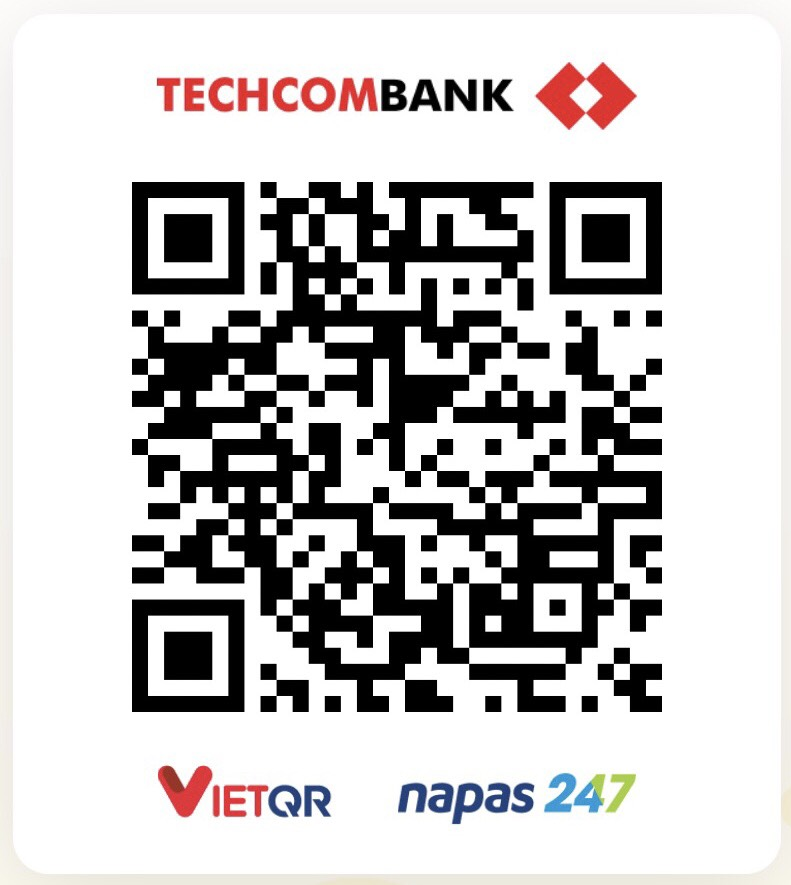
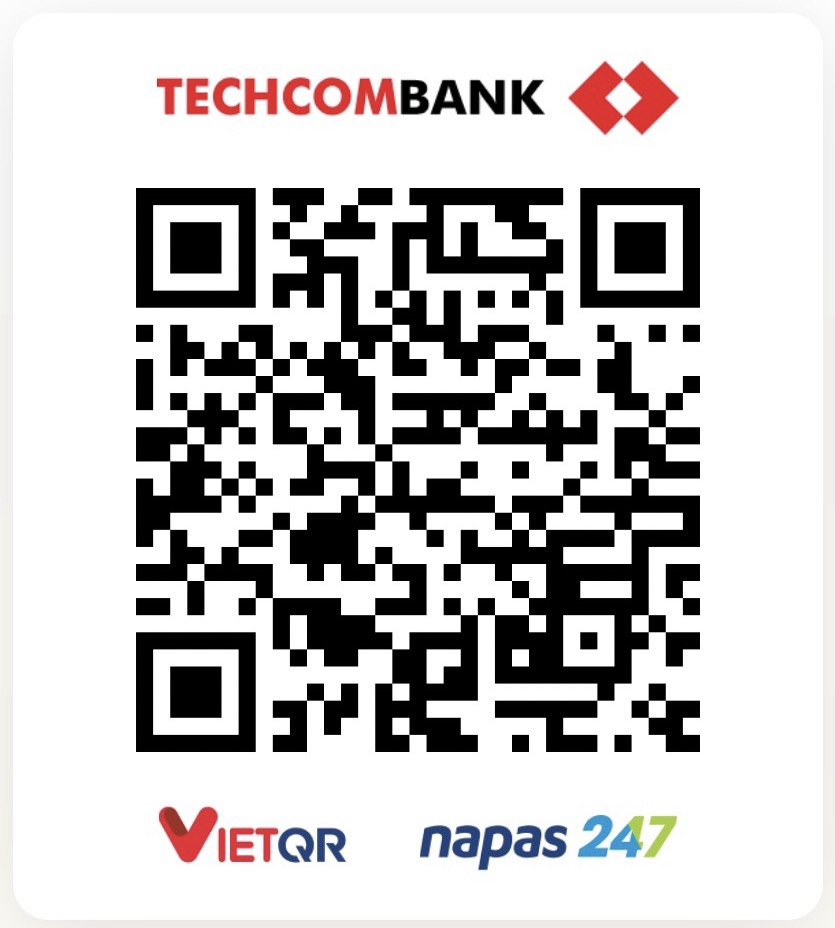
wedding-02: add submit data confirm to gg sheet

diff --git a/services/spreadsheet.ts b/services/spreadsheet.ts
@@ -1,0 +1,41 @@
+import { JWT } from 'google-auth-library';
+import { GoogleSpreadsheet } from 'google-spreadsheet';
+
+const SPREADSHEET_ID = process.env.NEXT_PUBLIC_SPREADSHEET_ID as string;
+const SHEET_ID = parseInt(process.env.NEXT_PUBLIC_SHEET_ID as string);
+const GOOGLE_CLIENT_EMAIL = process.env.NEXT_PUBLIC_GOOGLE_CLIENT_EMAIL;
+const GOOGLE_SERVICE_PRIVATE_KEY = process.env
+  .GOOGLE_SERVICE_PRIVATE_KEY as string;
+
+const serviceAccountAuth = new JWT({
+  email: GOOGLE_CLIENT_EMAIL,
+  key: GOOGLE_SERVICE_PRIVATE_KEY.replace(/\\n/g, '\n'),
+  scopes: ['https://www.googleapis.com/auth/spreadsheets'],
+});
+const doc = new GoogleSpreadsheet(SPREADSHEET_ID, serviceAccountAuth);
+
+export async function appendRowData(row: any) {
+  try {
+    await doc.loadInfo();
+    const sheet = doc.sheetsById[SHEET_ID];
+    await sheet.addRow(row);
+  } catch (err) {
+    console.error('Error when add data to spread sheet: ', err);
+  }
+}
+
+export async function getIDs(): Promise<number> {
+  try {
+    await doc.loadInfo();
+    const sheet = doc.sheetsById[SHEET_ID];
+    const rows = await sheet.getRows();
+    if (rows.length < 1) {
+      return 1;
+    } else {
+      return parseInt(rows[rows.length - 1].get('STT')) + 1;
+    }
+  } catch (err) {
+    console.error('Error when get data from spread sheet: ', err);
+    return 1;
+  }
+}

diff --git a/components/wish/wish-form.tsx b/components/wish/wish-form.tsx
@@ -14,8 +14,13 @@ group-hover:translate-x-1 group-hover:-translate-y-1"
 const loadingIcon = (
   <FaSpinner className="text-xs opacity-80 transition-all animate-spin" />
 );
-export default function WishForm() {
+
+type WishFormProps = {
+  callDone: (isDone: boolean) => void;
+};
+export default function WishForm({ callDone }: WishFormProps) {
   const [isLoading, setIsLoading] = React.useState(false);
+  const [isSubmitted, setIsSubmitted] = React.useState(false);
   const submitForm = async (event: FormEvent<HTMLFormElement>) => {
     event.preventDefault();
     setIsLoading(true);
@@ -33,6 +38,8 @@ export default function WishForm() {
       console.log(error);
     } finally {
       setIsLoading(false);
+      setIsSubmitted(!isSubmitted);
+      callDone(!isSubmitted);
       const guestNameEle = document.getElementById('name') as HTMLInputElement;
       const wishEle = document.getElementById('wish') as HTMLInputElement;
       guestNameEle.value = '';

diff --git a/components/congrats/Congrats.tsx b/components/congrats/Congrats.tsx
@@ -13,6 +13,7 @@ import { ToastContainer, toast } from 'react-toastify';
 import { FaSpinner } from 'react-icons/fa';
 import GiftCard from '../gift/gift-card';
 import { banks } from '@/utils/data';
+import { appendRowData, getIDs } from '@/services/spreadsheet';
 enum GUEST {
   GROOM_GUEST = 'GROOM_GUEST',
   BRIDE_GUEST = 'BRIDE_GUEST',
@@ -74,10 +75,14 @@ export default function Congrats() {
     } else {
       try {
         setIsLoading(true);
-        await fetch('/api/confirmation', {
-          method: 'POST',
-          body: JSON.stringify({ guestName, type: selectedOption }),
-        });
+        const newestIds = await getIDs();
+        const rowSubmit = {
+          STT: newestIds,
+          'Guest name': guestName,
+          Type: selectedOption,
+          Number: 1,
+        };
+        await appendRowData(rowSubmit);
       } catch (error) {
         console.log(error);
       } finally {

diff --git a/components/main/heart-fall.tsx b/components/main/heart-fall.tsx
@@ -3,7 +3,6 @@ import { motion } from 'framer-motion';
 import React from 'react';
 import { BsFillHeartFill } from 'react-icons/bs';
 export default function HeartFalling() {
-  const sizes = ['xl', '2xl', '3xl', '4xl', '5xl'];
   return (
     <div className="fixed z-[99999] top-0 left-0 w-full h-full pointer-events-none ">
       {[...Array(10)].map((_, index) => (
@@ -23,10 +22,11 @@ export default function HeartFalling() {
             ease: 'easeIn',
             repeat: Infinity,
           }}
+          style={{
+            fontSize: `${Math.random() * 1.5 + 1}rem`,
+          }}
         >
-          <BsFillHeartFill
-            className={`text-${sizes[Math.floor(Math.random() * 4)]}`}
-          />
+          <BsFillHeartFill />
         </motion.div>
       ))}
     </div>

diff --git a/components/wish/wishes.tsx b/components/wish/wishes.tsx
@@ -8,6 +8,7 @@ import WishList from './wish-list';
 
 export default function Wishes() {
   const { ref } = useSectionInView({ sectionName: 'Lời chúc' });
+  const [isNeedReload, setIsNeedReload] = React.useState(false);
   return (
     <section
       ref={ref}
@@ -22,10 +23,14 @@ export default function Wishes() {
       md:items-stretch  md:flex-row"
       >
         <div className="xs:px-5 md:w-1/2">
-          <WishForm />
+          <WishForm
+            callDone={(status: any) => {
+              setIsNeedReload(status);
+            }}
+          />
         </div>
         <div className="xs:w-full xs:px-5 md:w-1/2">
-          <WishList />
+          <WishList reload={isNeedReload} />
         </div>
       </div>
     </section>

diff --git a/components/wish/wish-list.tsx b/components/wish/wish-list.tsx
@@ -3,8 +3,12 @@ import React, { useState, useEffect } from 'react';
 import WishCard from './wish-card';
 import { WishData } from '@/services/types';
 import { FaSpinner } from 'react-icons/fa';
+import { type } from 'os';
 
-export default function WishList() {
+type WishListProps = {
+  reload: boolean;
+};
+export default function WishList({ reload }: WishListProps) {
   const [listWishes, setListWishes] = useState<WishData[]>([]);
   useEffect(() => {
     const fetchWishes = async () => {
@@ -13,7 +17,7 @@ export default function WishList() {
       setListWishes(data?.data);
     };
     fetchWishes();
-  });
+  }, [reload]);
   return (
     <div
       className={`flex bg-white flex-col md:mt-10 xs:mt-1 border-[3px] w-full

diff --git a/utils/data.ts b/utils/data.ts
@@ -150,15 +150,15 @@ export const slides = [image0149, image9216, image9779];
 
 export const banks = [
   {
-    bankName: 'Teckcombank',
-    cardNumber: '1903 532 190 001',
+    bankName: 'Techcombank',
+    cardNumber: '1903 9075 5100 17',
     cardHolder: 'NGUYEN HOANG ANH TUAN',
     image: groomQR,
     type: 'GROOM',
   },
   {
-    bankName: 'Teckcombank',
-    cardNumber: '1903 532 190 001',
+    bankName: 'Techcombank',
+    cardNumber: '1903 6078 0040 16',
     cardHolder: 'TRUONG THI BICH',
     image: brideQR,
     type: 'BRIDE',

diff --git a/next.config.js b/next.config.js
@@ -3,6 +3,19 @@ const nextConfig = {
   experimental: {
     serverActions: true,
   },
+  webpack: (config, { isServer }) => {
+    if (!isServer) {
+      config.resolve.fallback.fs = false;
+      config.resolve.fallback.tls = false;
+      config.resolve.fallback.net = false;
+      config.resolve.fallback.child_process = false;
+    }
+
+    return config;
+  },
+  env: {
+    GOOGLE_SERVICE_PRIVATE_KEY: process.env.GOOGLE_SERVICE_PRIVATE_KEY,
+  },
 };
 
 module.exports = nextConfig;
